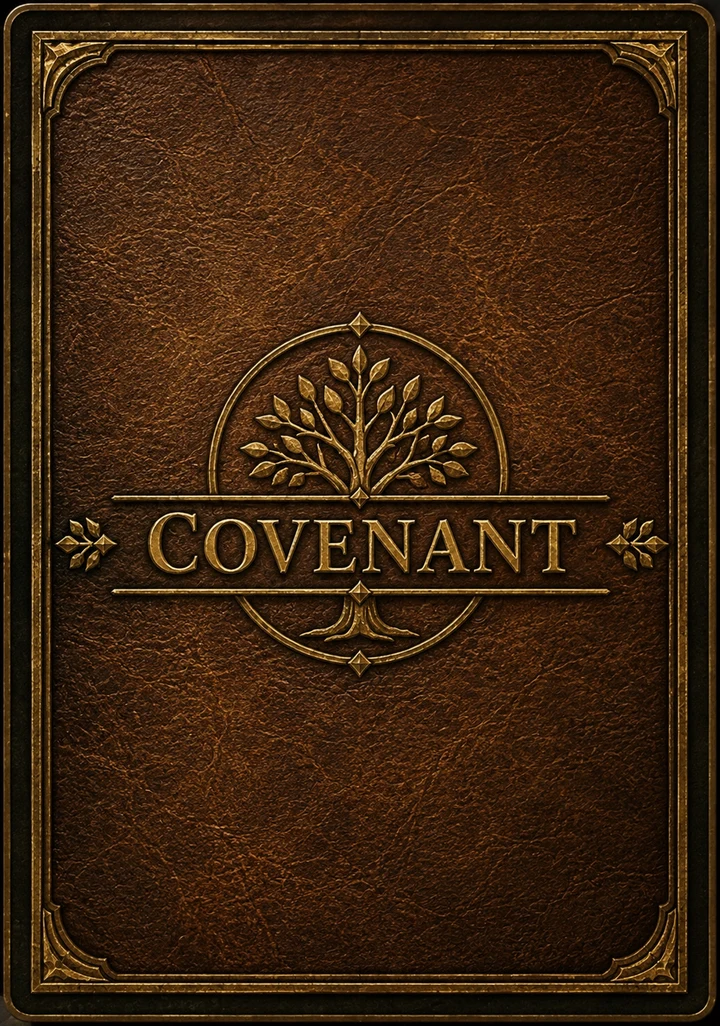
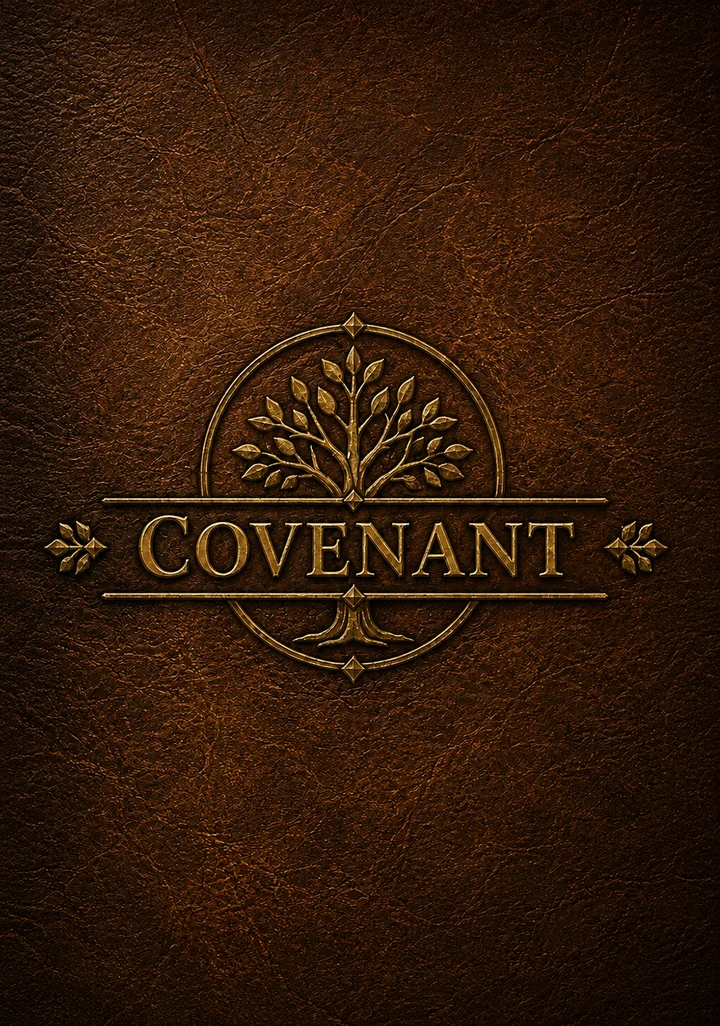
Swap in the updated card-back artwork
The unframed leather-and-seal version, replacing the previous bordered
one. Bumped the service worker's cache VERSION since this revises an
existing unhashed asset in place — otherwise a device that already
cached the old bytes would never see the new ones.

diff --git a/public/sw.js b/public/sw.js
@@ -29,7 +29,7 @@
  * VERSION, which is what actually forces a fresh fetch.
  */
 
-const VERSION = 'covenant-v2'
+const VERSION = 'covenant-v3'
 const SHELL = `${VERSION}-shell`
 
 /*
